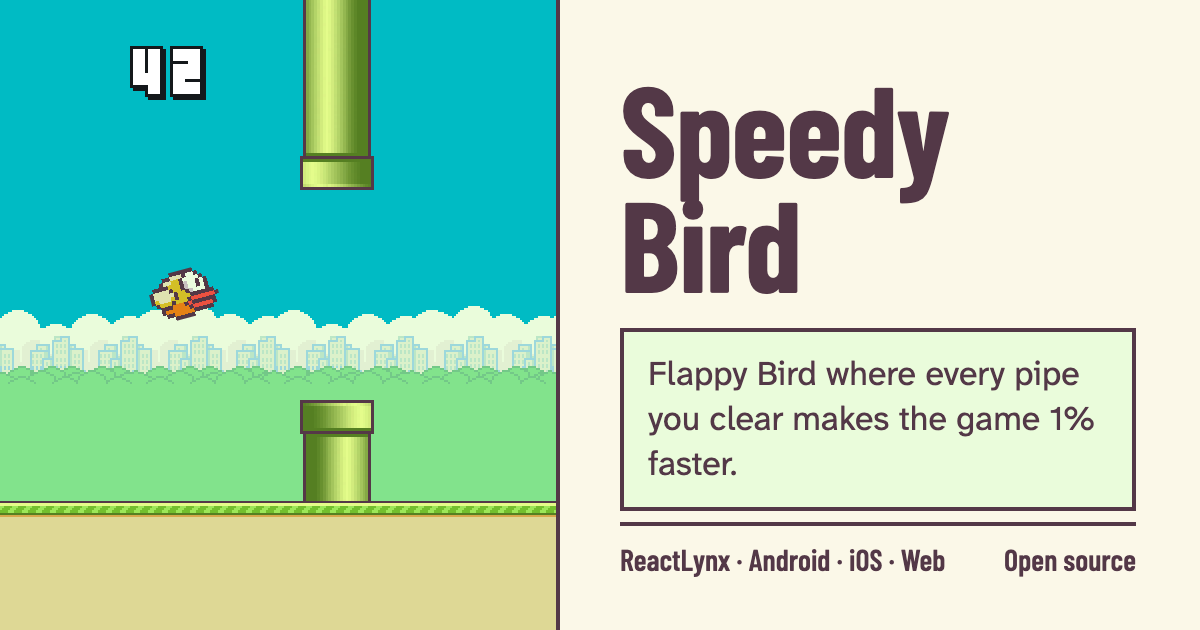
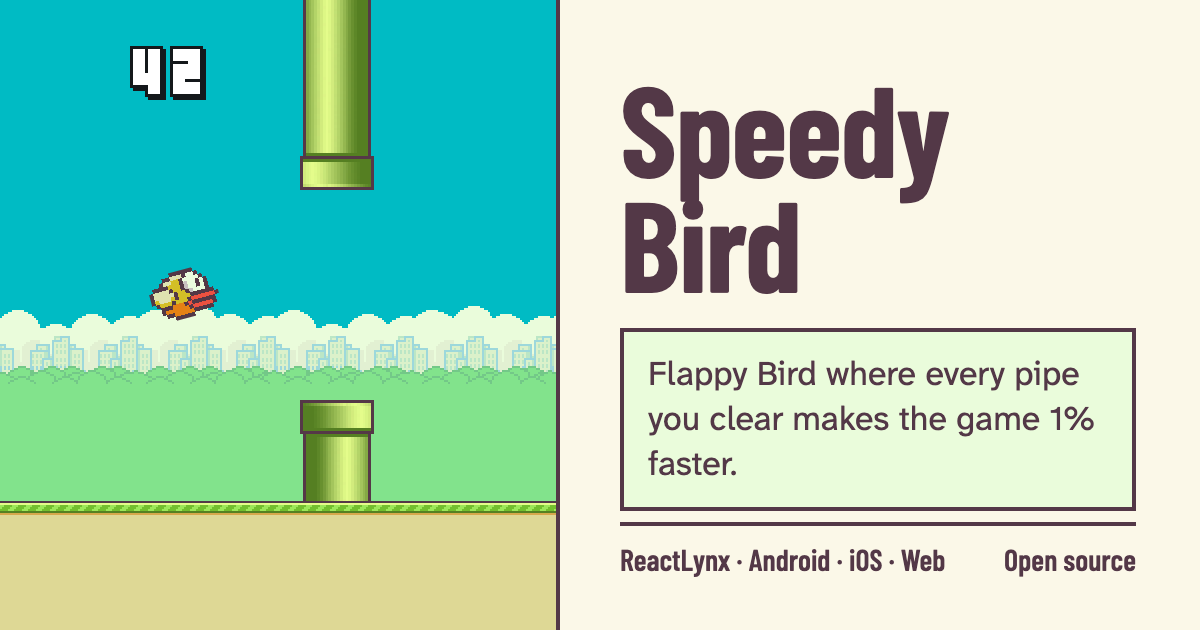
fix(game): keep pixel art sharp and stop stretching the ground
Every sprite now scales with nearest-neighbor sampling
(image-rendering: pixelated), so the art stays crisp on high-density
screens instead of being smoothed. The 224x112 ground sprite was drawn
129 px tall; it now keeps its height and the band below it is filled
with the sprite's own sand color. The collision floor is unchanged.

The social image template had the same stretch and is re-rendered.

Changed region(s): [[0.0, 0.7841, 0.4625, 0.8444]]

diff --git a/src/components/GameOverScreen.tsx b/src/components/GameOverScreen.tsx
@@ -3,7 +3,7 @@ import medalBronze from '../../assets/sprites/medals/medal-bronze.png';
 import medalGold from '../../assets/sprites/medals/medal-gold.png';
 import medalPlatinum from '../../assets/sprites/medals/medal-platinum.png';
 import medalSilver from '../../assets/sprites/medals/medal-silver.png';
-import { CANVAS_HEIGHT } from '../constants.js';
+import { CANVAS_HEIGHT, PIXEL_ART } from '../constants.js';
 import { medalForScore } from '../game/engine.js';
 import type { Medal } from '../types.js';
 
@@ -54,12 +54,20 @@ export default function GameOverScreen({ visible, score, bestScore, newBest }: G
       <view style={{ width: `${IMG_W}px`, height: `${IMG_H}px`, position: 'relative' }}>
         <image
           src={gameOverSrc}
-          style={{ position: 'absolute', top: '0px', left: '0px', width: `${IMG_W}px`, height: `${IMG_H}px` }}
+          style={{
+            ...PIXEL_ART,
+            position: 'absolute',
+            top: '0px',
+            left: '0px',
+            width: `${IMG_W}px`,
+            height: `${IMG_H}px`,
+          }}
         />
         {medal ? (
           <image
             src={MEDAL_SPRITES[medal]}
             style={{
+              ...PIXEL_ART,
               position: 'absolute',
               top: '88px',
               left: '24px',

diff --git a/docs/scripts/og-template.html b/docs/scripts/og-template.html
@@ -10,7 +10,7 @@
   body { width: 1200px; height: 630px; display: grid; grid-template-columns: 560px 1fr; background: #fbf8e8; color: #533847; font-family: 'Atkinson Hyperlegible Next', sans-serif; }
   .scene { position: relative; overflow: hidden; background: #00bbc4; border-right: 4px solid #533847; image-rendering: pixelated; }
   .bg { position: absolute; left: 0; right: 0; bottom: 120px; height: 228px; background: url('../public/assets/sprites/background.png') repeat-x 0 0 / 276px 228px; }
-  .ground { position: absolute; left: 0; right: 0; bottom: 0; height: 129px; background: url('../public/assets/sprites/ground.png') repeat-x 0 0 / 224px 129px; z-index: 3; border-top: 0; }
+  .ground { position: absolute; left: 0; right: 0; bottom: 0; height: 129px; background: #ded895 url('../public/assets/sprites/ground.png') repeat-x 0 0 / 224px 112px; z-index: 3; border-top: 0; }
   .pipe { position: absolute; width: 74px; background-repeat: repeat-y; background-size: 74px 71px; z-index: 1; }
   .mouth { position: absolute; left: 0; width: 74px; height: 71px; }
   .p1 { left: 300px; }

diff --git a/src/components/Ground.tsx b/src/components/Ground.tsx
@@ -1,5 +1,5 @@
 import groundSrc from '../../assets/sprites/ground.png';
-import { CANVAS_HEIGHT, GROUND_H, GROUND_W } from '../constants.js';
+import { CANVAS_HEIGHT, GROUND_COLOR, GROUND_H, GROUND_TILE_H, GROUND_W, PIXEL_ART } from '../constants.js';
 
 const TILES = [0, 1, 2, 3, 4];
 
@@ -17,6 +17,9 @@ export default function Ground() {
         zIndex: 3,
         display: 'flex',
         flexDirection: 'row',
+        alignItems: 'flex-start',
+        // The sprite is shorter than the ground band; its sand color continues below it.
+        backgroundColor: GROUND_COLOR,
       }}
     >
       {TILES.map((tile) => (
@@ -24,7 +27,7 @@ export default function Ground() {
           key={tile}
           src={groundSrc}
           // Overlap by one pixel so fractional scaling never shows a seam between tiles.
-          style={{ width: `${GROUND_W + 1}px`, height: `${GROUND_H}px`, marginRight: '-1px' }}
+          style={{ ...PIXEL_ART, width: `${GROUND_W + 1}px`, height: `${GROUND_TILE_H}px`, marginRight: '-1px' }}
         />
       ))}
     </view>

diff --git a/src/components/PipeSlot.tsx b/src/components/PipeSlot.tsx
@@ -2,7 +2,7 @@ import pipeBottomBody from '../../assets/sprites/pipes/pipe-bottom.png';
 import pipeBottomMouth from '../../assets/sprites/pipes/pipe-bottom-mouth.png';
 import pipeTopBody from '../../assets/sprites/pipes/pipe-top.png';
 import pipeTopMouth from '../../assets/sprites/pipes/pipe-top-mouth.png';
-import { PIPE_H, PIPE_W } from '../constants.js';
+import { PIPE_H, PIPE_W, PIXEL_ART } from '../constants.js';
 
 // Source tiles are 26x25; scale them to the pipe width.
 const TILE_H = Math.round(25 * (PIPE_W / 26));
@@ -10,6 +10,7 @@ const TILE_H = Math.round(25 * (PIPE_W / 26));
 const BODY_TILES = Array.from({ length: Math.ceil((PIPE_H + 400) / TILE_H) }, (_, index) => index);
 
 const tileStyle = (top: number, height = TILE_H) => ({
+  ...PIXEL_ART,
   position: 'absolute' as const,
   top: `${top}px`,
   left: '0px',

diff --git a/src/constants.ts b/src/constants.ts
@@ -54,6 +54,8 @@ export const BG_DX = 0.2;
 // Ground — 15% taller to sit higher on screen
 export const GROUND_W = 224;
 export const GROUND_H = 129;
+/** The ground sprite's own height; the band below it is filled with GROUND_COLOR. */
+export const GROUND_TILE_H = 112;
 export const GROUND_DX = 2.7;
 
 // After game over, taps restart only once the bird has landed and this many steps
@@ -69,3 +71,8 @@ export const MEDAL_PLATINUM = 100;
 // Colors
 export const BG_COLOR = '#00bbc4';
 export const LETTERBOX_COLOR = '#04111e';
+/** Bottom row of the ground sprite. */
+export const GROUND_COLOR = '#ded895';
+
+/** Scale sprites with nearest-neighbor sampling so pixel art stays sharp at any size. */
+export const PIXEL_ART = { imageRendering: 'pixelated' } as const;

diff --git a/src/components/Bird.tsx b/src/components/Bird.tsx
@@ -1,7 +1,7 @@
 import bird0 from '../../assets/sprites/bird-0.png';
 import bird1 from '../../assets/sprites/bird-1.png';
 import bird2 from '../../assets/sprites/bird-2.png';
-import { BIRD_H, BIRD_W, BIRD_X, BIRD_Y_START } from '../constants.js';
+import { BIRD_H, BIRD_W, BIRD_X, BIRD_Y_START, PIXEL_ART } from '../constants.js';
 
 // Wing cycle: up, middle, down, middle. All frames stay mounted and the main thread
 // toggles their opacity, so a frame change never waits for an image to decode.
@@ -28,6 +28,7 @@ export default function Bird() {
           id={`bird-frame-${index}`}
           src={src}
           style={{
+            ...PIXEL_ART,
             position: 'absolute',
             width: `${BIRD_W}px`,
             height: `${BIRD_H}px`,

diff --git a/src/components/ScoreDisplay.tsx b/src/components/ScoreDisplay.tsx
@@ -8,6 +8,7 @@ import digit6 from '../../assets/sprites/digits/digit-6.png';
 import digit7 from '../../assets/sprites/digits/digit-7.png';
 import digit8 from '../../assets/sprites/digits/digit-8.png';
 import digit9 from '../../assets/sprites/digits/digit-9.png';
+import { PIXEL_ART } from '../constants.js';
 
 const DIGIT_SPRITES = [digit0, digit1, digit2, digit3, digit4, digit5, digit6, digit7, digit8, digit9];
 
@@ -43,6 +44,7 @@ export default function ScoreDisplay({ score, visible }: ScoreDisplayProps) {
           key={index}
           src={DIGIT_SPRITES[digit]}
           style={{
+            ...PIXEL_ART,
             width: `${DIGIT_W}px`,
             height: `${DIGIT_H}px`,
             marginLeft: index > 0 ? `${DIGIT_GAP}px` : '0px',

diff --git a/src/components/Background.tsx b/src/components/Background.tsx
@@ -1,5 +1,5 @@
 import bgSrc from '../../assets/sprites/background.png';
-import { BG_H, BG_W, CANVAS_HEIGHT, GROUND_H } from '../constants.js';
+import { BG_H, BG_W, CANVAS_HEIGHT, GROUND_H, PIXEL_ART } from '../constants.js';
 
 const TILES = [0, 1, 2, 3, 4];
 
@@ -24,7 +24,7 @@ export default function Background() {
           key={tile}
           src={bgSrc}
           // Overlap by one pixel so fractional scaling never shows a seam between tiles.
-          style={{ width: `${BG_W + 1}px`, height: `${BG_H}px`, marginRight: '-1px' }}
+          style={{ ...PIXEL_ART, width: `${BG_W + 1}px`, height: `${BG_H}px`, marginRight: '-1px' }}
         />
       ))}
     </view>

diff --git a/src/components/GetReadyScreen.tsx b/src/components/GetReadyScreen.tsx
@@ -1,5 +1,5 @@
 import getReadySrc from '../../assets/sprites/get-ready.png';
-import { CANVAS_HEIGHT } from '../constants.js';
+import { CANVAS_HEIGHT, PIXEL_ART } from '../constants.js';
 
 const IMG_W = 174;
 const IMG_H = 160;
@@ -23,7 +23,7 @@ export default function GetReadyScreen({ visible }: GetReadyScreenProps) {
         justifyContent: 'center',
       }}
     >
-      <image src={getReadySrc} style={{ width: `${IMG_W}px`, height: `${IMG_H}px` }} />
+      <image src={getReadySrc} style={{ ...PIXEL_ART, width: `${IMG_W}px`, height: `${IMG_H}px` }} />
     </view>
   );
 }
